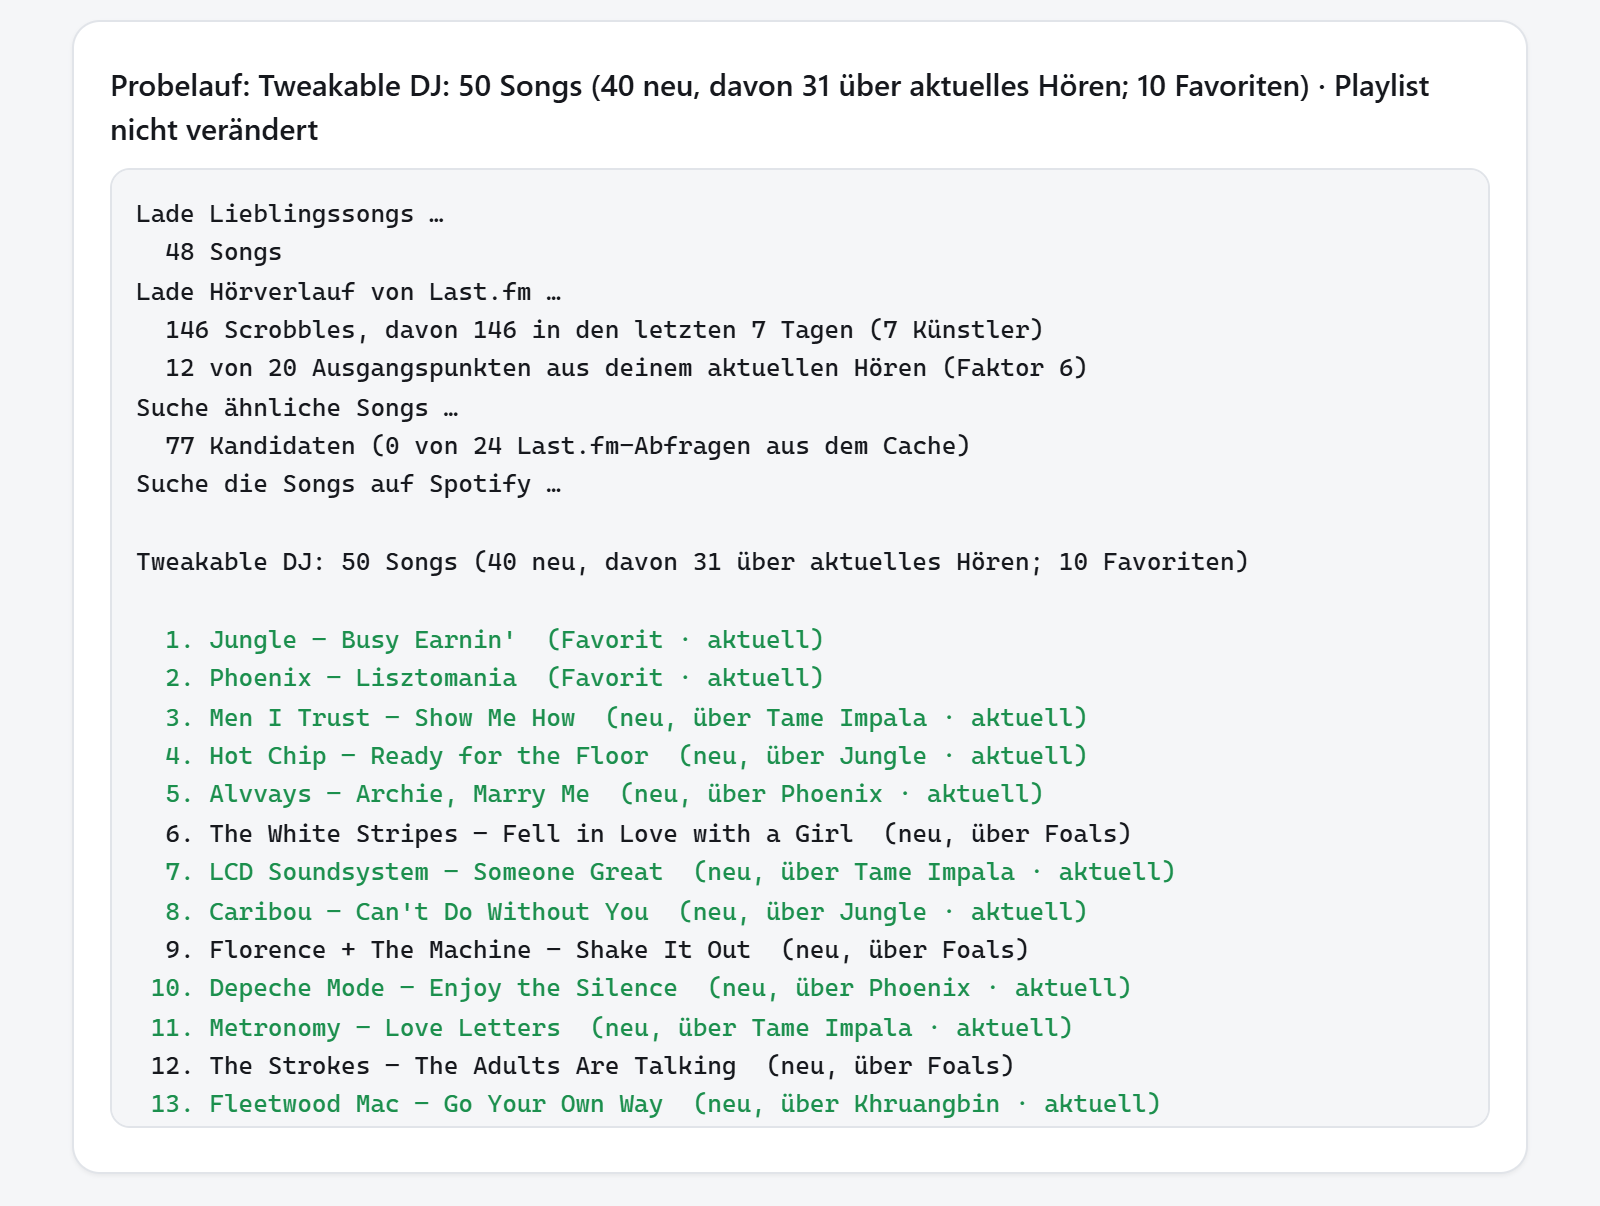
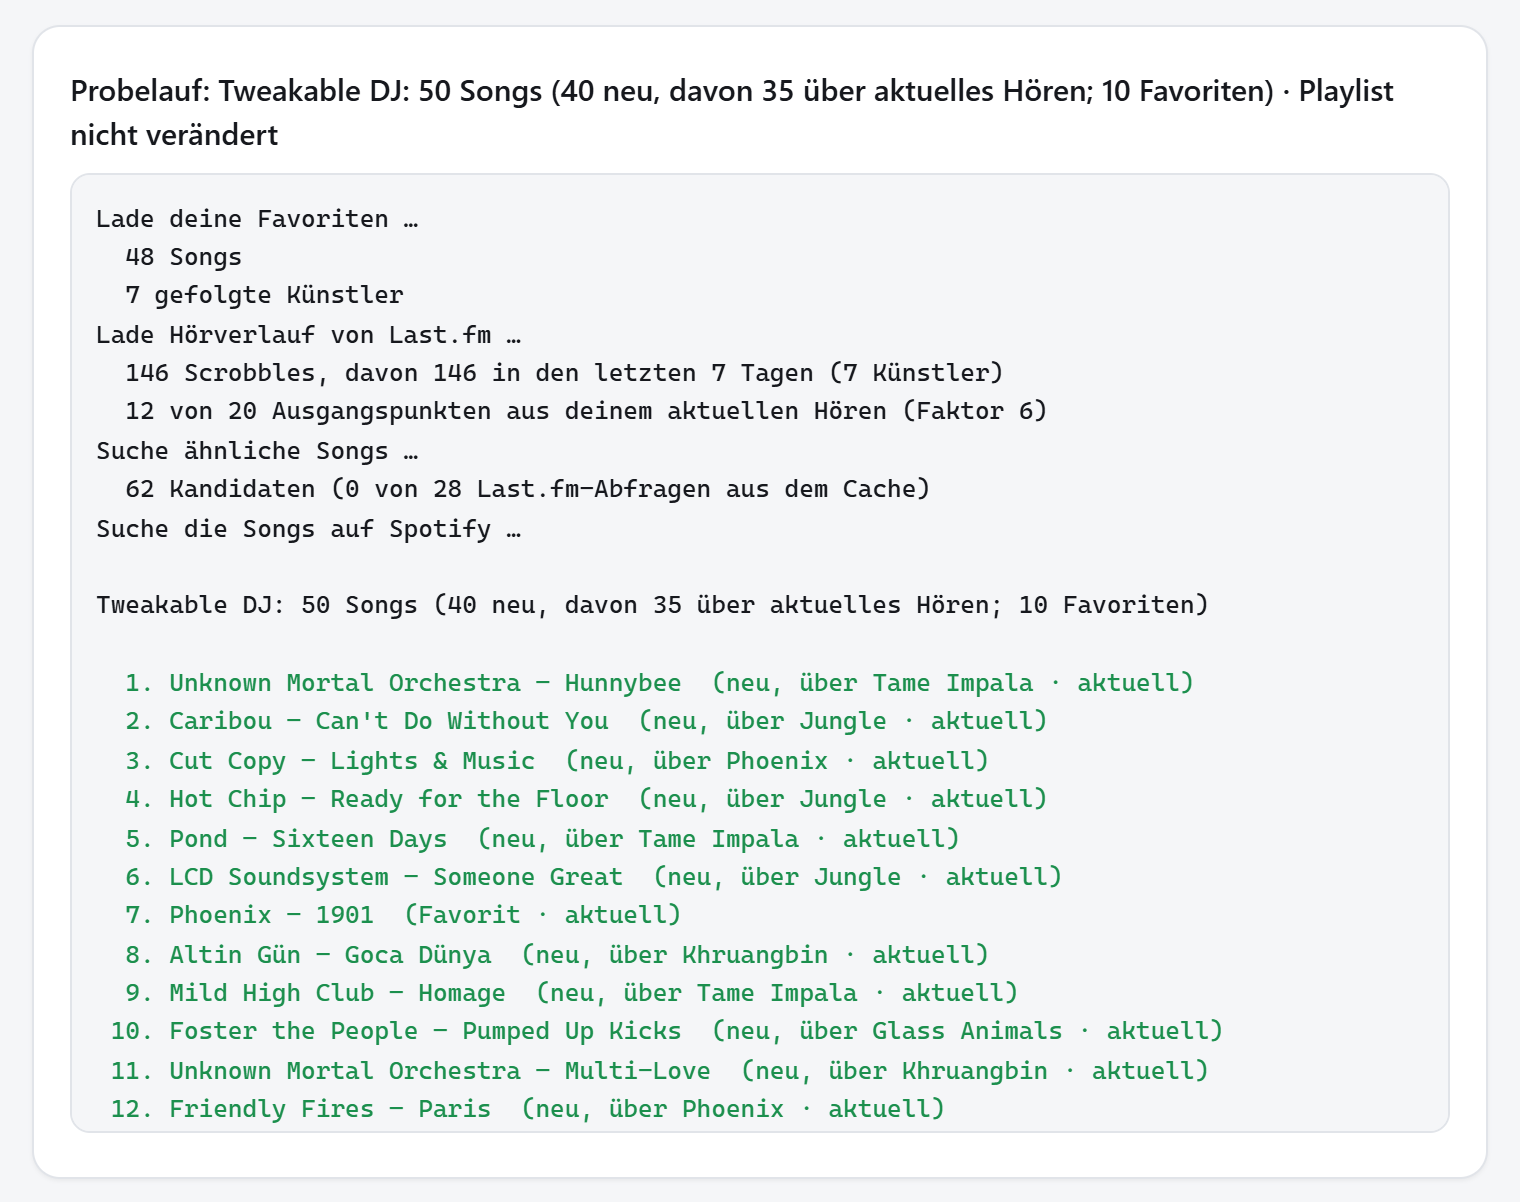
Retake screenshots with the new sliders
Main view now shows "Followed artists" and "Artist variety"; test run
and setup images show the current texts.

Changed region(s): [[0.0618, 0.1539, 0.8039, 0.9542], [0.0309, 0.0616, 0.9276, 0.1231], [0.7112, 0.5541, 0.773, 0.5849]]

diff --git a/README.de.md b/README.de.md
@@ -8,7 +8,7 @@ Der KI-DJ von Spotify spricht zwischen den Songs, und seine Stimme lässt sich n
 Wie viel Abwechslung, wie viele Favoriten und wie oft derselbe Künstler vorkommt, stellst du selbst ein.
 Die Oberfläche gibt es auf Deutsch und Englisch, umschaltbar oben rechts (DE | EN).
 
-<p align="center"><img src="docs/screenshot-main.de.png" width="600" alt="Die Oberfläche von Tweakable DJ: Voreinstellungen wie Entdecken und Meine aktuelle Phase, die Einstellungen der Playlist mit Reglern und die Buttons Probelauf und Playlist neu erstellen"></p>
+<p align="center"><img src="docs/screenshot-main.de.png" width="440" alt="Die Oberfläche von Tweakable DJ: Voreinstellungen wie Entdecken und Meine aktuelle Phase, die Einstellungen der Playlist, die Regler Gefolgte Künstler und Abwechslung bei Künstlern (mit Details für Fortgeschrittene) und die Buttons Probelauf und Playlist neu erstellen"></p>
 
 Tweakable DJ ist ein unabhängiges Projekt und kein offizielles Spotify-Produkt (mehr dazu in [Abschnitt 12](#12-datenquellen-marken-und-lizenz)).
 
@@ -257,7 +257,7 @@ Beim allerersten Start fragt das System eventuell nach, siehe [Einrichtung](#7-e
 
 Beide Lauf-Buttons speichern vorher automatisch. Die Oberfläche ist nur auf deinem PC erreichbar, andere Geräte im Netzwerk und fremde Webseiten haben keinen Zugriff.
 
-<p align="center"><img src="docs/screenshot-run.de.png" width="640" alt="Ergebnis eines Probelaufs: Tweakable DJ mit 50 Songs, davon 40 neu und 31 über aktuelles Hören gefunden, 10 Favoriten, darunter die Schritte des Laufs und die Liste der ausgewählten Songs"></p>
+<p align="center"><img src="docs/screenshot-run.de.png" width="640" alt="Ergebnis eines Probelaufs: Tweakable DJ mit 50 Songs, davon 40 neu und 35 über aktuelles Hören gefunden, 10 Favoriten, darunter die Schritte des Laufs (samt gefolgten Künstlern) und die Liste der ausgewählten Songs"></p>
 
 ### Im Terminal
 

diff --git a/README.md b/README.md
@@ -8,7 +8,7 @@ Spotify’s own AI DJ talks between the songs, and its voice can’t be turned o
 You decide how much variety you want, how many favorites, and how often the same artist comes up.
 The interface is available in English and German; switch at the top right (DE | EN).
 
-<p align="center"><img src="docs/screenshot-main.en.png" width="600" alt="The Tweakable DJ interface: presets such as Discover and My current phase, the playlist settings with sliders, and the buttons Test run and Rebuild playlist"></p>
+<p align="center"><img src="docs/screenshot-main.en.png" width="440" alt="The Tweakable DJ interface: presets such as Discover and My current phase, the playlist settings, the sliders Followed artists and Artist variety (with Details for experts), and the buttons Test run and Rebuild playlist"></p>
 
 Tweakable DJ is an independent project and not an official Spotify product (more in [section 12](#12-data-sources-trademarks-and-license)).
 
@@ -257,7 +257,7 @@ On the very first start, your system may ask for confirmation, see [setup](#7-se
 
 Both run buttons save first automatically. The interface can only be reached from your own computer; other devices on the network and other websites have no access.
 
-<p align="center"><img src="docs/screenshot-run.en.png" width="640" alt="Result of a test run: Tweakable DJ with 50 songs, 40 of them new and 31 found via current listening, 10 favorites, followed by the steps of the run and the list of picked songs"></p>
+<p align="center"><img src="docs/screenshot-run.en.png" width="640" alt="Result of a test run: Tweakable DJ with 50 songs, 40 of them new and 34 found via current listening, 10 favorites, followed by the steps of the run (including the followed artists) and the list of picked songs"></p>
 
 ### In the terminal
 
